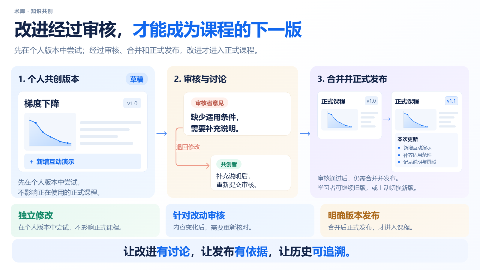
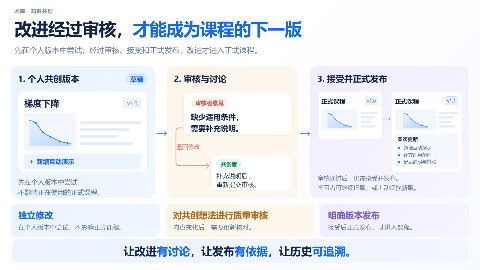
style(creator-guide): align review stage colors and wording

diff --git a/modules/Creator-Guide/pages/ShukuIntroPages.tsx b/modules/Creator-Guide/pages/ShukuIntroPages.tsx
@@ -35,7 +35,7 @@ export function ShukuParticipationPage(){
   return <article className="cg-shuku-page cg-shuku-participation cg-creator-typography" aria-labelledby="cg-shuku-participation-title"><Heading id="cg-shuku-participation-title" title="从提出一个问题，到贡献一种更好的讲法，" accent="每个人都可以参与到课程的进化" subtitle="反馈也是参与；学习者、教师和创作者，可以在同一门课程中接力。"/><Connections/><section className="cg-shuku-person cg-shuku-learner tone-blue"><Typography as="h2" variant="h2" tone="inherit">学习者</Typography><Copy>“这一步不太直观，<br/>能再举个例子吗？”</Copy></section><section className="cg-shuku-person cg-shuku-teacher tone-teal"><Typography as="h2" variant="h2" tone="inherit">教师或专业人士</Typography><Copy>“我有一个真实案例，<br/>可以补充到这里。”</Copy></section><div className="cg-shuku-participation-course"><CourseCard/></div><section className="cg-shuku-person cg-shuku-creator tone-violet"><Typography as="h2" variant="h2" tone="inherit">课程创作者</Typography><Copy>“我来补充一个<br/>更清楚的互动演示。”</Copy></section><ol className="cg-shuku-participation-path">{steps.map(([title,description],i)=><li key={title}><span>{i+1}</span><div><Typography as="h3" variant="h3" tone="inherit">{title}</Typography><Copy>{description}</Copy></div>{i<steps.length-1&&<b aria-hidden="true">→</b>}</li>)}</ol><Conclusion icon>学习中的发现，可以成为<em>共同改进课程的起点。</em></Conclusion></article>;
 }
 export function ShukuReviewPage(){
-  return <article className="cg-shuku-page cg-shuku-review cg-creator-typography" aria-labelledby="cg-shuku-review-title"><Heading id="cg-shuku-review-title" title="改进经过审核，" accent="才能成为课程的下一版" subtitle="先在个人版本中尝试；经过审核、合并和正式发布，改进才进入正式课程。"/><div className="cg-shuku-review-panels"><section className="cg-shuku-review-panel tone-blue"><Typography as="h2" variant="h2" tone="inherit">1. 个人共创版本</Typography><span className="cg-shuku-draft">草稿</span><CourseCard compact note="＋ 新增互动演示"/><Copy className="cg-shuku-panel-caption">先在个人版本中尝试，<br/>不影响正在使用的正式课程。</Copy></section><span className="cg-shuku-stage-arrow" aria-hidden="true">→</span><section className="cg-shuku-review-panel cg-shuku-discussion tone-amber"><Typography as="h2" variant="h2" tone="inherit">2. 审核与讨论</Typography><div className="cg-shuku-review-comment"><span>审核者意见</span><Copy>缺少适用条件，<br/>需要补充说明。</Copy></div><div className="cg-shuku-return" aria-hidden="true"><svg viewBox="0 0 160 170"><path d="M35 12H21Q9 12 9 25v123q0 12 12 12h118m-10-10 10 10-10 10" fill="none" stroke="currentColor" strokeWidth="3" strokeLinecap="round" strokeLinejoin="round"/></svg><Copy>退回修改</Copy></div><div className="cg-shuku-author-comment"><span>共创者</span><Copy>补充说明后，<br/>重新提交审核。</Copy></div></section><span className="cg-shuku-stage-arrow" aria-hidden="true">→</span><section className="cg-shuku-review-panel cg-shuku-publication tone-violet"><Typography as="h2" variant="h2" tone="inherit">3. 合并并正式发布</Typography><div className="cg-shuku-version-comparison"><CourseCard mini/><span aria-hidden="true">→</span><CourseCard mini version="v1.1" updated/></div><Copy className="cg-shuku-panel-caption">审核通过后，仍需合并并发布。<br/>学习者可继续旧版，或主动切换新版。</Copy></section></div><div className="cg-shuku-principles">{[['独立修改','在个人版本中尝试，不影响正式课程。','teal'],['针对改动审核','内容变化后，需要重新核对。','blue'],['明确版本发布','合并后正式发布，才进入课程。','amber']].map(([title,description,tone])=><section key={title} className={'tone-'+tone}><Typography as="h2" variant="h2" tone="inherit">{title}</Typography><Copy>{description}</Copy></section>)}</div><Conclusion>让改进<em>有讨论</em>，让发布<em>有依据</em>，让历史<em>可追溯。</em></Conclusion></article>;
+  return <article className="cg-shuku-page cg-shuku-review cg-creator-typography" aria-labelledby="cg-shuku-review-title"><Heading id="cg-shuku-review-title" title="改进经过审核，" accent="才能成为课程的下一版" subtitle="先在个人版本中尝试；经过审核、接受和正式发布，改进才进入正式课程。"/><div className="cg-shuku-review-panels"><section className="cg-shuku-review-panel tone-blue"><Typography as="h2" variant="h2" tone="inherit">1. 个人共创版本</Typography><span className="cg-shuku-draft">草稿</span><CourseCard compact note="＋ 新增互动演示"/><Copy className="cg-shuku-panel-caption">先在个人版本中尝试，<br/>不影响正在使用的正式课程。</Copy></section><span className="cg-shuku-stage-arrow" aria-hidden="true">→</span><section className="cg-shuku-review-panel cg-shuku-discussion tone-amber"><Typography as="h2" variant="h2" tone="inherit">2. 审核与讨论</Typography><div className="cg-shuku-review-comment"><span>审核者意见</span><Copy>缺少适用条件，<br/>需要补充说明。</Copy></div><div className="cg-shuku-return" aria-hidden="true"><svg viewBox="0 0 160 170"><path d="M35 12H21Q9 12 9 25v123q0 12 12 12h118m-10-10 10 10-10 10" fill="none" stroke="currentColor" strokeWidth="3" strokeLinecap="round" strokeLinejoin="round"/></svg><Copy>退回修改</Copy></div><div className="cg-shuku-author-comment"><span>共创者</span><Copy>补充说明后，<br/>重新提交审核。</Copy></div></section><span className="cg-shuku-stage-arrow" aria-hidden="true">→</span><section className="cg-shuku-review-panel cg-shuku-publication tone-violet"><Typography as="h2" variant="h2" tone="inherit">3. 接受并正式发布</Typography><div className="cg-shuku-version-comparison"><CourseCard mini/><span aria-hidden="true">→</span><CourseCard mini version="v1.1" updated/></div><Copy className="cg-shuku-panel-caption">审核通过后，仍需接受并发布。<br/>学习者可继续旧版，或主动切换新版。</Copy></section></div><div className="cg-shuku-principles">{[['独立修改','在个人版本中尝试，不影响正式课程。','blue'],['对共创想法进行质量审核','内容变化后，需要重新核对。','amber'],['明确版本发布','接受后正式发布，才进入课程。','violet']].map(([title,description,tone])=><section key={title} className={'tone-'+tone}><Typography as="h2" variant="h2" tone="inherit">{title}</Typography><Copy>{description}</Copy></section>)}</div><Conclusion>让改进<em>有讨论</em>，让发布<em>有依据</em>，让历史<em>可追溯。</em></Conclusion></article>;
 }
 export function ShukuGrowthPage(){
   const [version,setVersion]=useState(2),marker=useId().replaceAll(':','');
